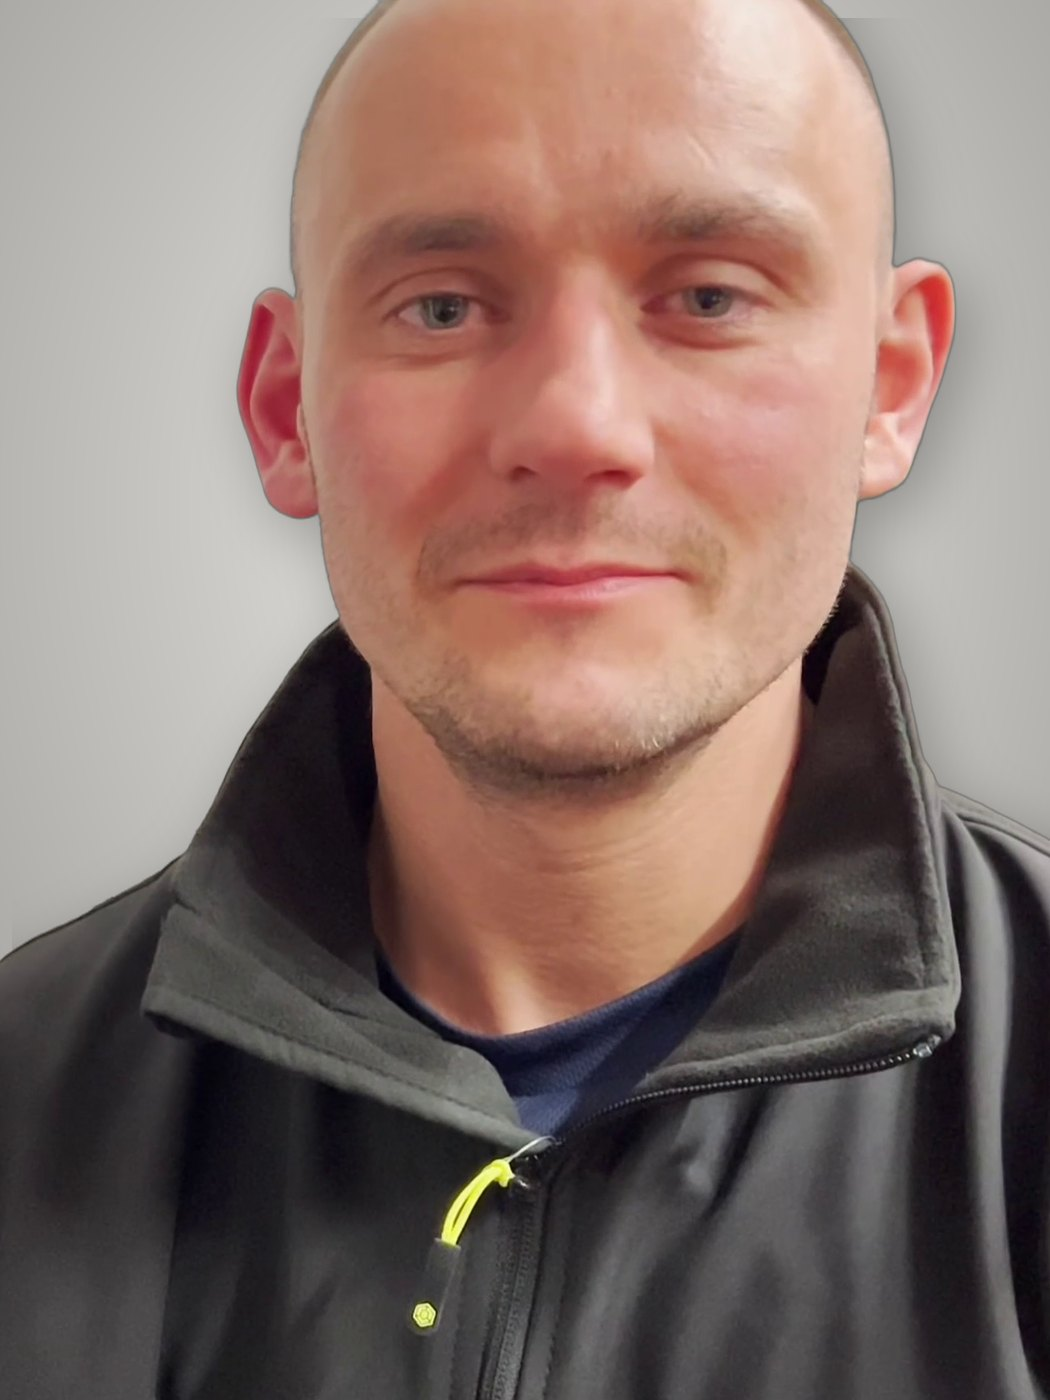
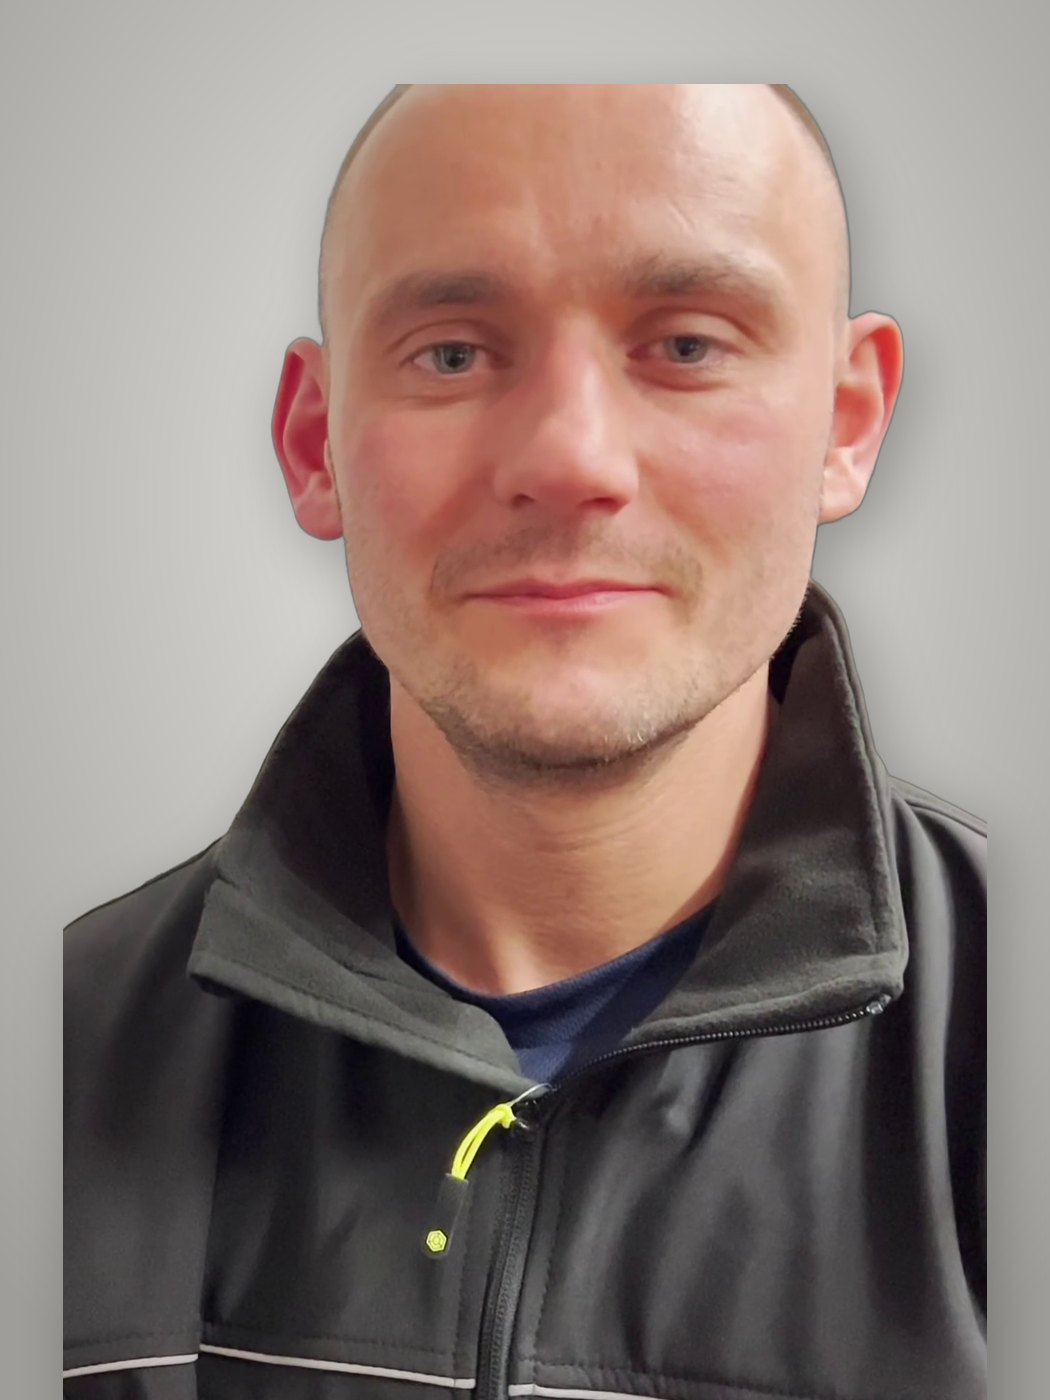
The Way In: whole of Unit 19 shows behind the shutter with a blurred fill at the sides; Billy's portrait eased back with headroom; the Christmas caption sits on the team-in-the-container photograph; the startup caret follows each typed letter, then blinks, then fades with the line
Claude-Session: https://claude.ai/code/session_01CuB6we9SgcpshYv4GnJKyd

diff --git a/staff/index.html b/staff/index.html
@@ -795,9 +795,15 @@ footer .ft-legal-in{margin-top:16px;font-family:var(--mono);font-size:10.5px;let
 #gate .glogo{width:clamp(240px,32vw,520px)}
 #gate .line2 .caret{display:inline-block;width:.08em;height:.95em;margin-left:.08em;vertical-align:-.1em;background:#fff;opacity:0;animation:caret .8s steps(1) infinite}
 @keyframes caret{50%{opacity:0}}
-#gate .line2 .caret.on{opacity:1}
+#gate .line2 .caret.on{opacity:1;animation:none}
+#gate .line2 .caret.blink{opacity:1;animation:caret .8s steps(1) infinite}
+#gate .line2 .caret{position:relative;top:.04em}
 .mark img{height:58px}
 .hero .ph{z-index:1}
+/* the whole of Unit 19 shows, at full height, with a blurred copy of itself filling the sides */
+.hero .ph img.bg{filter:blur(22px) brightness(.42) saturate(.9)!important;transform:scale(1.12)!important}
+.hero .ph img.fg{position:absolute;left:50%;top:50%;height:108%;width:auto;max-width:none;transform:translate(-50%,-50%)!important;object-fit:cover;box-shadow:0 0 140px rgba(0,0,0,.7)}
+@media(max-width:820px){.hero .ph img.fg{height:auto;width:100%}}
 .plate .badge{min-height:0;grid-template-rows:100px auto;align-items:end;align-content:start;justify-items:start;gap:12px}
 .plate .badge img,.plate .badge img.tl,.plate .badge img.pl,.plate .badge img.nbc,.plate .badge img.jcp{width:auto;height:100px;max-width:100%;object-fit:contain;object-position:left bottom;margin:0;border-radius:0;align-self:end}
 .plate .badge img.jcp{border-radius:10px}
@@ -848,7 +854,7 @@ ol.spine.journey .pic.logo{object-fit:contain;background:#fff;padding:14px}
 
 <!-- ══ THE HERO: the shutter opens as you scroll ══ -->
 <section class="hero" id="top" aria-label="The way in">
-  <div class="ph" aria-hidden="true"><img src="../assets/journey/ch10-a.webp" width="1078" height="1254" alt="" decoding="async"></div>
+  <div class="ph" aria-hidden="true"><img class="bg" src="../assets/journey/ch10-a.webp" width="1078" height="1254" alt="" decoding="async"><img class="fg" src="../assets/journey/ch10-a.webp" width="1078" height="1254" alt="" decoding="async"></div>
   <div class="shutter" id="shutter" aria-hidden="true"><div class="slats" id="slats"></div><div class="rail l"></div><div class="rail r"></div><div class="housing"></div></div>
   <div class="daylight" id="daylight" aria-hidden="true"></div>
   <div class="in" id="heroIn">
@@ -1001,7 +1007,7 @@ ol.spine.journey .pic.logo{object-fit:contain;background:#fff;padding:14px}
       <figcaption><b>Molly, Josh's mother</b>, in a handwritten card sent unprompted shortly after Josh started, reproduced with Molly's and Josh's permission.
         <button type="button" class="cardopen" data-cur data-card data-cur-label="See">See the card <i>→</i></button></figcaption>
     </figure>
-    <figure class="photo rv"><img src="../assets/journey/ch13-b.webp" width="1078" height="1254" style="object-position:50% 62%" alt="The team in front of the first container of Firestorm stock on Christmas Eve 2024" loading="lazy" decoding="async"><figcaption>The team unloading one of their containers at Christmas</figcaption></figure>
+    <figure class="photo rv"><img src="../assets/journey/ch13-team.webp" width="1200" height="1024" alt="The team standing inside an open shipping container at Unit 19" loading="lazy" decoding="async"><figcaption>The team unloading one of their containers at Christmas</figcaption></figure>
   </div>
 </section>
 

diff --git a/sites/thewayin/public/index.html b/sites/thewayin/public/index.html
@@ -796,9 +796,15 @@ footer .ft-legal-in{margin-top:16px;font-family:var(--mono);font-size:10.5px;let
 #gate .glogo{width:clamp(240px,32vw,520px)}
 #gate .line2 .caret{display:inline-block;width:.08em;height:.95em;margin-left:.08em;vertical-align:-.1em;background:#fff;opacity:0;animation:caret .8s steps(1) infinite}
 @keyframes caret{50%{opacity:0}}
-#gate .line2 .caret.on{opacity:1}
+#gate .line2 .caret.on{opacity:1;animation:none}
+#gate .line2 .caret.blink{opacity:1;animation:caret .8s steps(1) infinite}
+#gate .line2 .caret{position:relative;top:.04em}
 .mark img{height:58px}
 .hero .ph{z-index:1}
+/* the whole of Unit 19 shows, at full height, with a blurred copy of itself filling the sides */
+.hero .ph img.bg{filter:blur(22px) brightness(.42) saturate(.9)!important;transform:scale(1.12)!important}
+.hero .ph img.fg{position:absolute;left:50%;top:50%;height:108%;width:auto;max-width:none;transform:translate(-50%,-50%)!important;object-fit:cover;box-shadow:0 0 140px rgba(0,0,0,.7)}
+@media(max-width:820px){.hero .ph img.fg{height:auto;width:100%}}
 .plate .badge{min-height:0;grid-template-rows:100px auto;align-items:end;align-content:start;justify-items:start;gap:12px}
 .plate .badge img,.plate .badge img.tl,.plate .badge img.pl,.plate .badge img.nbc,.plate .badge img.jcp{width:auto;height:100px;max-width:100%;object-fit:contain;object-position:left bottom;margin:0;border-radius:0;align-self:end}
 .plate .badge img.jcp{border-radius:10px}
@@ -849,7 +855,7 @@ ol.spine.journey .pic.logo{object-fit:contain;background:#fff;padding:14px}
 
 <!-- ══ THE HERO: the shutter opens as you scroll ══ -->
 <section class="hero" id="top" aria-label="The way in">
-  <div class="ph" aria-hidden="true"><img src="assets/journey/ch10-a.webp" width="1078" height="1254" alt="" decoding="async"></div>
+  <div class="ph" aria-hidden="true"><img class="bg" src="assets/journey/ch10-a.webp" width="1078" height="1254" alt="" decoding="async"><img class="fg" src="assets/journey/ch10-a.webp" width="1078" height="1254" alt="" decoding="async"></div>
   <div class="shutter" id="shutter" aria-hidden="true"><div class="slats" id="slats"></div><div class="rail l"></div><div class="rail r"></div><div class="housing"></div></div>
   <div class="daylight" id="daylight" aria-hidden="true"></div>
   <div class="in" id="heroIn">
@@ -1002,7 +1008,7 @@ ol.spine.journey .pic.logo{object-fit:contain;background:#fff;padding:14px}
       <figcaption><b>Molly, Josh's mother</b>, in a handwritten card sent unprompted shortly after Josh started, reproduced with Molly's and Josh's permission.
         <button type="button" class="cardopen" data-cur data-card data-cur-label="See">See the card <i>→</i></button></figcaption>
     </figure>
-    <figure class="photo rv"><img src="assets/journey/ch13-b.webp" width="1078" height="1254" style="object-position:50% 62%" alt="The team in front of the first container of Firestorm stock on Christmas Eve 2024" loading="lazy" decoding="async"><figcaption>The team unloading one of their containers at Christmas</figcaption></figure>
+    <figure class="photo rv"><img src="assets/journey/ch13-team.webp" width="1200" height="1024" alt="The team standing inside an open shipping container at Unit 19" loading="lazy" decoding="async"><figcaption>The team unloading one of their containers at Christmas</figcaption></figure>
   </div>
 </section>
 

diff --git a/sites/thewayin/public/engine.js b/sites/thewayin/public/engine.js
@@ -126,13 +126,19 @@
     /* the mark comes in and goes out again; the shutter arrives; the line is typed out on it */
     var typeSplit = new SplitText("#gType", { type: "chars" }), caret = $("#gCaret");
     gsap.set(typeSplit.chars, { autoAlpha: 0 });
+    /* each letter appears in turn and the caret moves to sit right after it, so it follows the typing */
+    var typing = gsap.timeline();
+    typeSplit.chars.forEach(function (c, i) {
+      typing.call(function () { gsap.set(c, { autoAlpha: 1 }); if (caret && c.after) c.after(caret); }, null, i * 0.055);
+    });
     intro.fromTo("#gLogo", { autoAlpha: 0, scale: .9 }, { autoAlpha: 1, scale: 1, duration: 1.1, ease: "power3.out" }, 0.25)
       .to("#gLogo", { autoAlpha: 0, scale: 1.05, duration: .7, ease: "power2.in" }, 2.4)
       /* the line is typed on the black screen, holds, then fades; only then does the shutter appear */
       .set("#gStencil2", { autoAlpha: 1 }, 3.2)
       .call(function () { if (caret) caret.classList.add("on"); }, null, 3.2)
-      .to(typeSplit.chars, { autoAlpha: 1, duration: .01, stagger: .055, ease: "none" }, 3.4)
-      .call(function () { if (caret) caret.classList.remove("on"); }, null, 5.5)
+      .add(typing, 3.4)
+      .call(function () { if (caret) { caret.classList.remove("on"); caret.classList.add("blink"); } }, null, 5.2)
+      .call(function () { if (caret) caret.classList.remove("blink"); }, null, 5.9)
       .to("#gStencil2", { autoAlpha: 0, y: -12, duration: .7, ease: "power2.in" }, 5.8)
       .fromTo("#gSlats, #gate .rail, #gate .housing", { autoAlpha: 0 }, { autoAlpha: 1, duration: .9, ease: "power2.out" }, 6.5)
       .add("gate", 7.7)

diff --git a/staff/engine.js b/staff/engine.js
@@ -126,13 +126,19 @@
     /* the mark comes in and goes out again; the shutter arrives; the line is typed out on it */
     var typeSplit = new SplitText("#gType", { type: "chars" }), caret = $("#gCaret");
     gsap.set(typeSplit.chars, { autoAlpha: 0 });
+    /* each letter appears in turn and the caret moves to sit right after it, so it follows the typing */
+    var typing = gsap.timeline();
+    typeSplit.chars.forEach(function (c, i) {
+      typing.call(function () { gsap.set(c, { autoAlpha: 1 }); if (caret && c.after) c.after(caret); }, null, i * 0.055);
+    });
     intro.fromTo("#gLogo", { autoAlpha: 0, scale: .9 }, { autoAlpha: 1, scale: 1, duration: 1.1, ease: "power3.out" }, 0.25)
       .to("#gLogo", { autoAlpha: 0, scale: 1.05, duration: .7, ease: "power2.in" }, 2.4)
       /* the line is typed on the black screen, holds, then fades; only then does the shutter appear */
       .set("#gStencil2", { autoAlpha: 1 }, 3.2)
       .call(function () { if (caret) caret.classList.add("on"); }, null, 3.2)
-      .to(typeSplit.chars, { autoAlpha: 1, duration: .01, stagger: .055, ease: "none" }, 3.4)
-      .call(function () { if (caret) caret.classList.remove("on"); }, null, 5.5)
+      .add(typing, 3.4)
+      .call(function () { if (caret) { caret.classList.remove("on"); caret.classList.add("blink"); } }, null, 5.2)
+      .call(function () { if (caret) caret.classList.remove("blink"); }, null, 5.9)
       .to("#gStencil2", { autoAlpha: 0, y: -12, duration: .7, ease: "power2.in" }, 5.8)
       .fromTo("#gSlats, #gate .rail, #gate .housing", { autoAlpha: 0 }, { autoAlpha: 1, duration: .9, ease: "power2.out" }, 6.5)
       .add("gate", 7.7)
